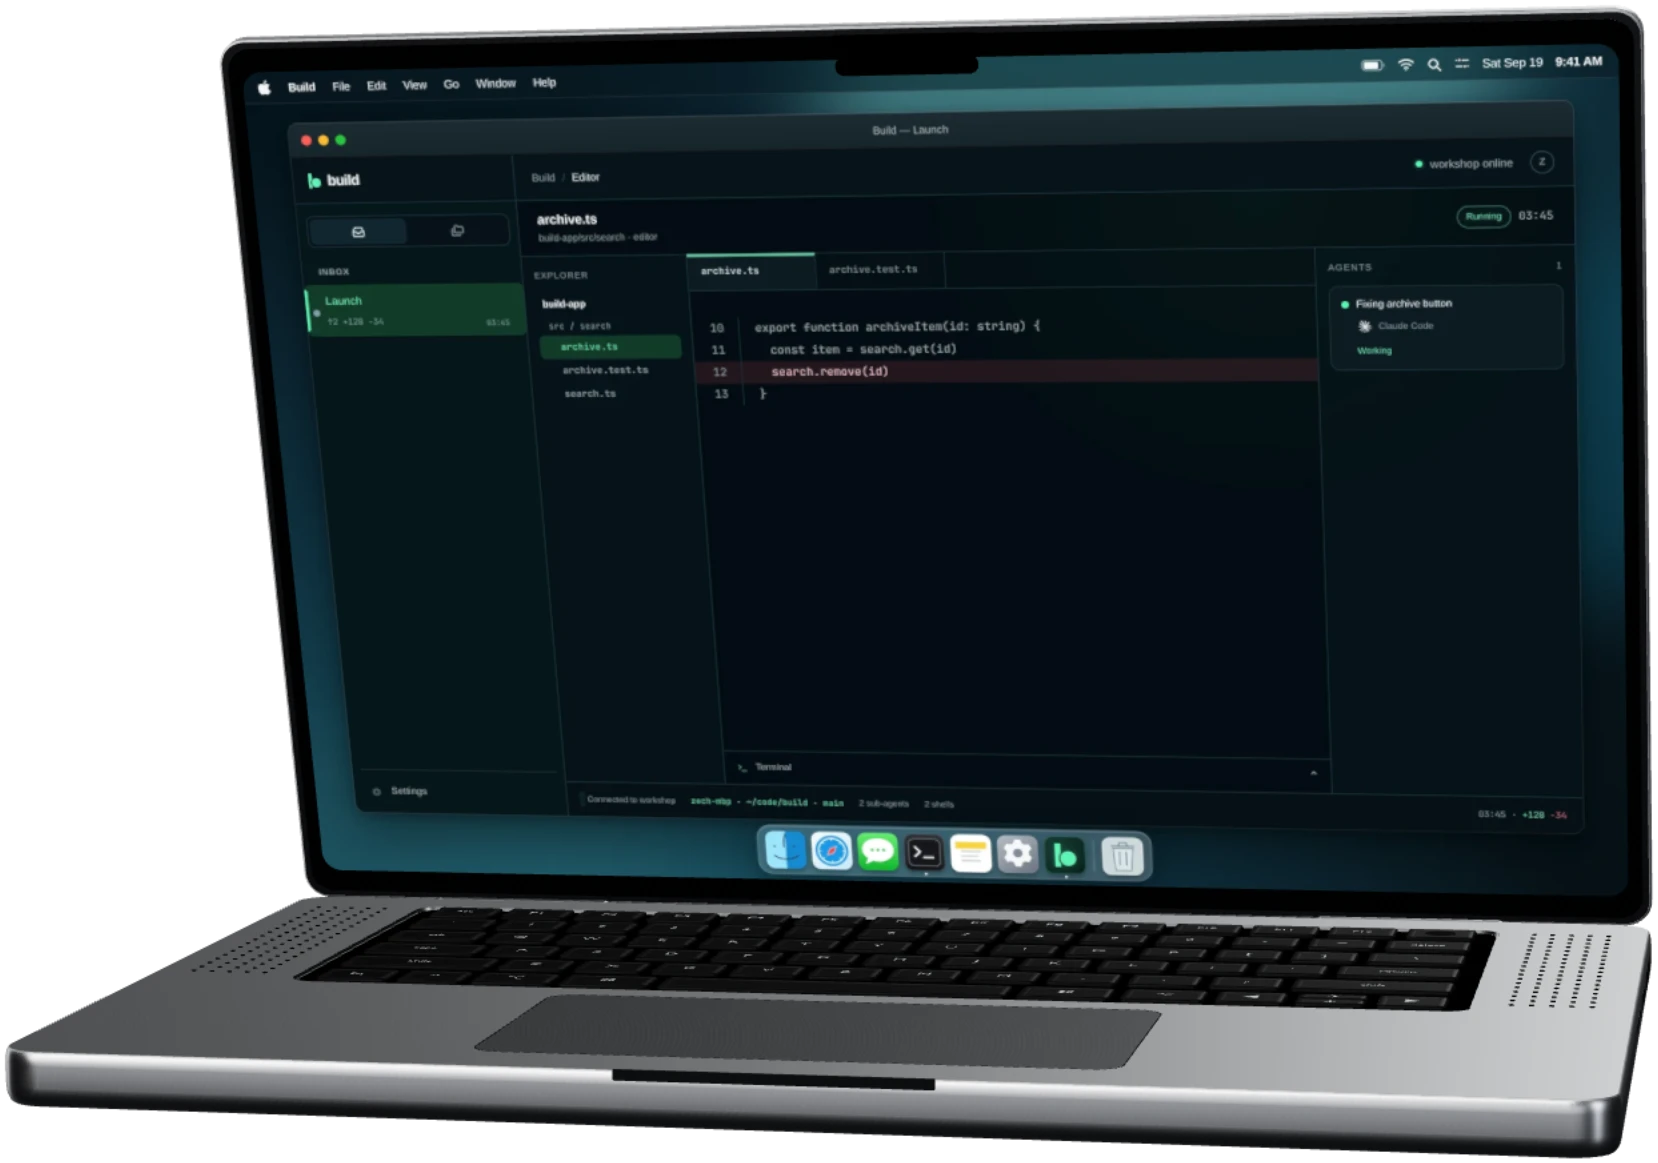
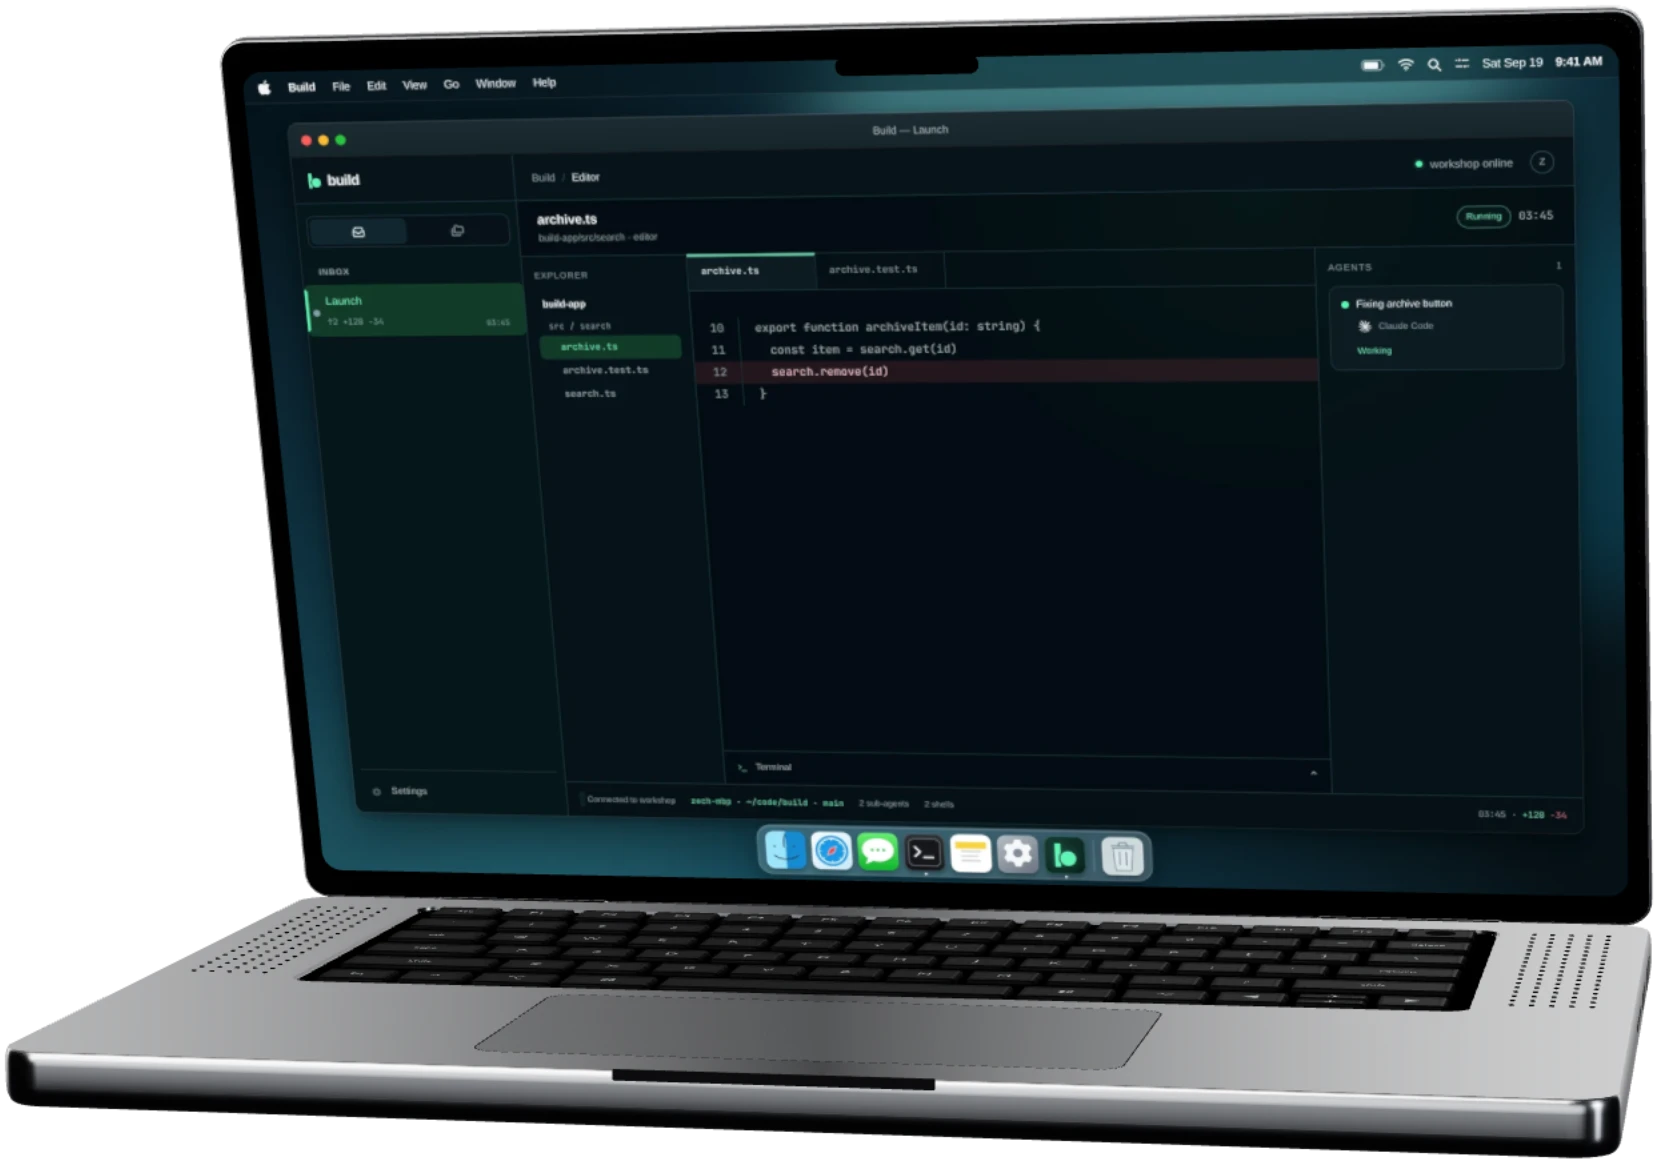
Landing hardware reads as aluminium, not plastic
A deck seen at a low angle mirrors the room behind the devices, and the
studio had nothing there, so a rough chassis averaged its reflections into
one flat grey. Strips of uneven width now stand behind the stage, the
overhead card sits off to one side, and the chassis is bare metal at
roughness 0.22 with no clearcoat, so the deck and edges carry gradients.
The key and edge lights drop by half so their highlights stop washing the
lid's edge white. The hero cutout is recaptured to match.

diff --git a/landing/src/stage/stage.js b/landing/src/stage/stage.js
@@ -5,6 +5,7 @@ import {
   ACESFilmicToneMapping,
   CanvasTexture,
   Color,
+  DoubleSide,
   DirectionalLight,
   Group,
   HemisphereLight,
@@ -44,19 +45,27 @@ const MAX_ANISOTROPY = 8;
 const LETTERBOX_COLOR = "#07110f";
 
 // Reflected studio strips shape the aluminium, with dark space between them.
+// Metal has no colour of its own, only what it reflects: a deck seen at a low
+// angle mirrors the room behind the devices, so strips of uneven width stand
+// there and the deck carries a gradient instead of one flat grey. The
+// overhead card sits off to one side so the lid's edge fades along its length.
 // This scene is baked once; the light cards never appear on the page.
+const STUDIO_CARDS = [
+  { size: [3.5, 5], position: [-4, 3, 5], color: 0xfffcf6, intensity: 4.0 },
+  { size: [0.85, 5], position: [4, 1, 3], color: 0xf1f4fa, intensity: 1.7 },
+  { size: [2.2, 1], position: [-1.8, 5, 1], color: 0xffffff, intensity: 2.2 },
+  { size: [6, 2], position: [-1, 0.1, 5], color: 0xf0f3f7, intensity: 0.9 },
+  { size: [1.6, 3], position: [-3.2, 1.2, -5], color: 0xffffff, intensity: 2.2 },
+  { size: [0.6, 3], position: [-0.8, 1.2, -5], color: 0xffffff, intensity: 1.4 },
+  { size: [2.4, 3], position: [2.2, 1.2, -5], color: 0xffffff, intensity: 1.0 },
+  { size: [0.4, 3], position: [4.6, 1.2, -5], color: 0xffffff, intensity: 3.0 },
+];
+
 function createDeviceEnvironment(renderer) {
   const studio = new Scene();
-  studio.background = new Color(0x111316);
-  const cards = [
-    { size: [3.5, 5], position: [-4, 3, 5], color: 0xfffcf6, intensity: 4.0 },
-    { size: [0.85, 5], position: [4, 1, 3], color: 0xf1f4fa, intensity: 1.7 },
-    { size: [5, 1.1], position: [0, 5, 1], color: 0xffffff, intensity: 3.2 },
-    { size: [6, 2], position: [-1, 0.1, 5], color: 0xf0f3f7, intensity: 0.9 },
-    { size: [1.2, 4], position: [-3, 1, -4], color: 0xffffff, intensity: 2.0 },
-  ];
-  for (const { size, position, color, intensity } of cards) {
-    const material = new MeshBasicMaterial({ color: new Color(color).multiplyScalar(intensity) });
+  studio.background = new Color(0x0b0c0e);
+  for (const { size, position, color, intensity } of STUDIO_CARDS) {
+    const material = new MeshBasicMaterial({ color: new Color(color).multiplyScalar(intensity), side: DoubleSide });
     const card = new Mesh(new PlaneGeometry(...size), material);
     card.position.set(...position);
     card.lookAt(0, 0, 0);
@@ -78,9 +87,20 @@ export function createDeviceScreenMaterial() {
   return material;
 }
 
+// Bead-blasted aluminium: fully metallic and smooth enough to carry the
+// studio's strips as soft gradients. Rougher, it averages them into one flat
+// grey, which is what reads as plastic.
+function dressAluminium(material) {
+  material.color.setRGB(0.7, 0.71, 0.73);
+  material.metalness = 1;
+  material.roughness = 0.22;
+  material.clearcoat = 0;
+}
+
 export function cloneDeviceSurfaceMaterial(material, maximumAnisotropy) {
   const clone = material.clone();
   if (clone.map) clone.map.anisotropy = Math.min(MAX_ANISOTROPY, maximumAnisotropy);
+  if (/Aluminum$/.test(clone.name)) dressAluminium(clone);
   if (clone.name === "FrontGlass") {
     clone.metalness = 0;
     clone.roughness = 0.3;
@@ -129,9 +149,9 @@ function createCamera() {
 
 function addStudioLights(scene) {
   const sky = new HemisphereLight(0xf1f3f2, 0x121820, 0.12);
-  const key = new DirectionalLight(0xfffcf6, 1.8);
+  const key = new DirectionalLight(0xfffcf6, 0.9);
   const fill = new DirectionalLight(0xe8edf5, 0.35);
-  const edge = new DirectionalLight(0xf2f4f3, 1.1);
+  const edge = new DirectionalLight(0xf2f4f3, 0.5);
   key.position.set(-4, 5, 6);
   fill.position.set(5, 1, 4);
   edge.position.set(2, 4, -5);
